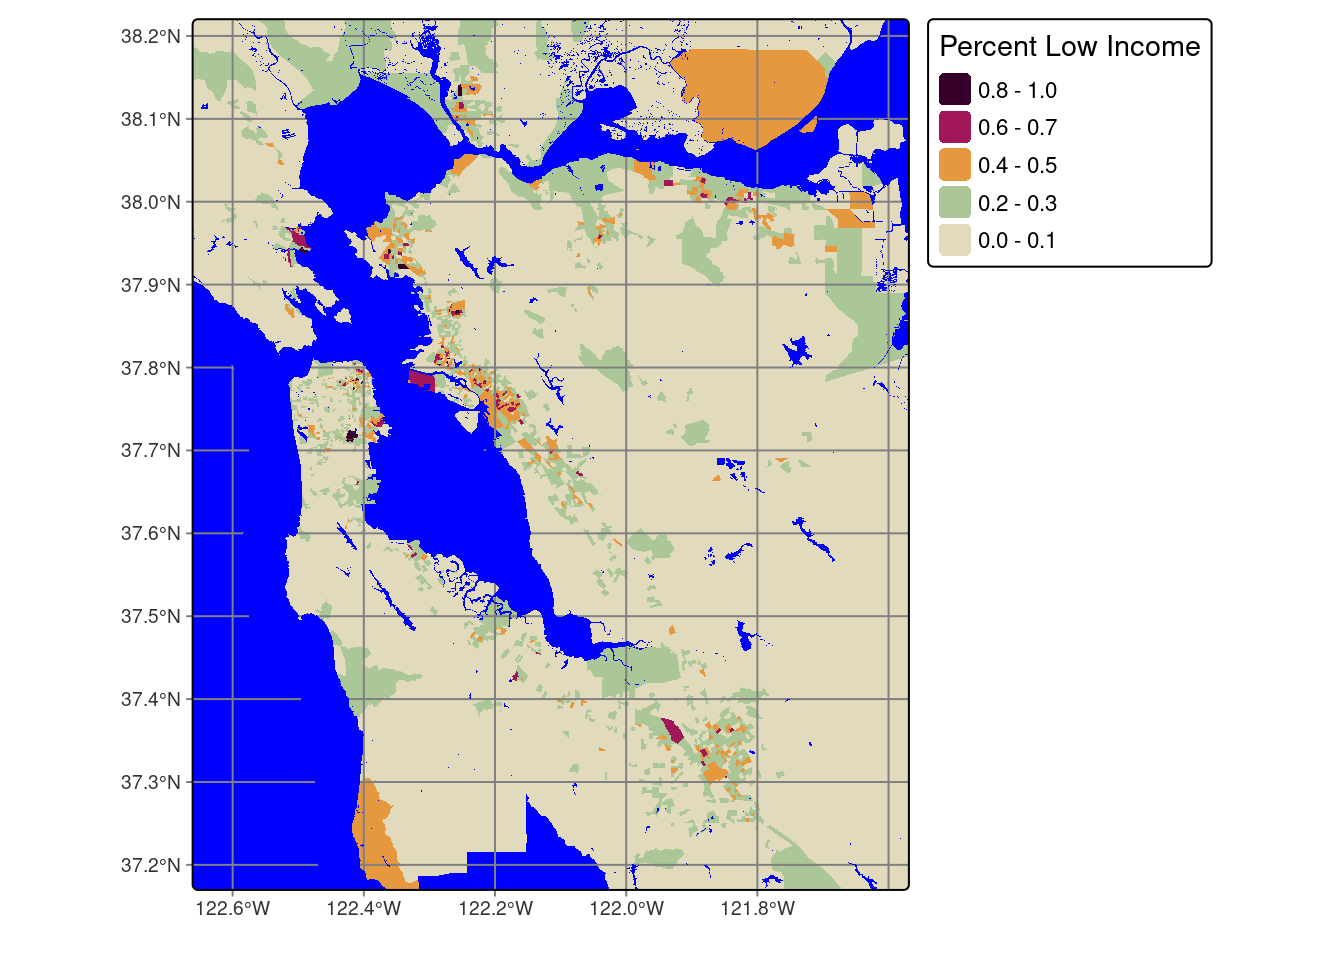
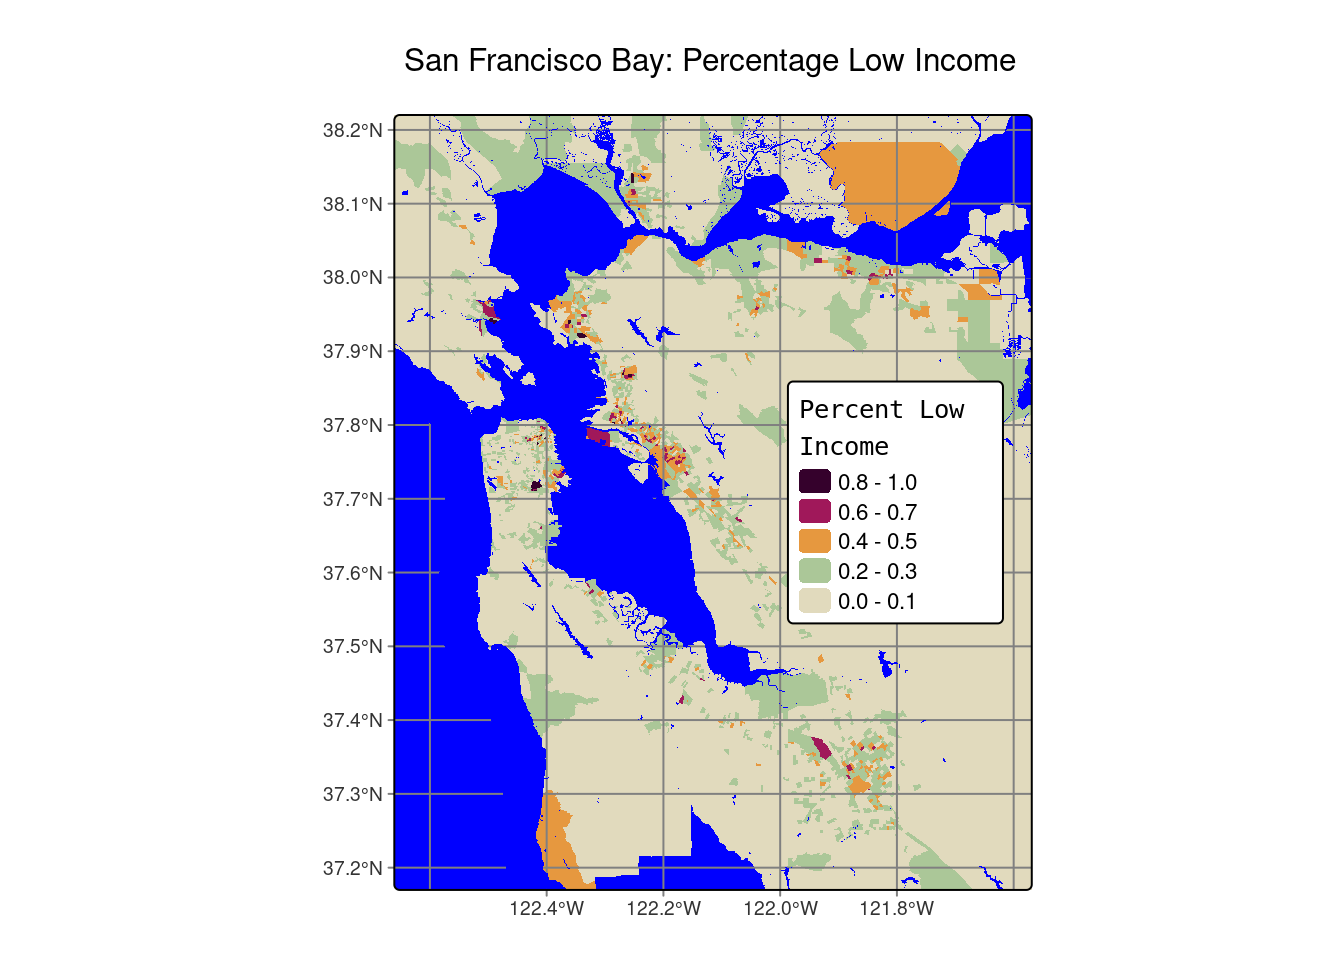
Tweaked legend aesthetics for my plots and added a description

diff --git a/eds223-homework1.html b/eds223-homework1.html
@@ -123,14 +123,14 @@ code span.wa { color: #60a0b0; font-weight: bold; font-style: italic; } /* Warni
 
 </header>
 
-<section id="assesing" class="level1">
-<h1>Assesing:</h1>
+<section id="assesing-wastewater-discharge-in-low-income-communities" class="level1">
+<h1>Assesing Wastewater discharge in low income communities:</h1>
 <section id="peter-vitale" class="level2">
 <h2 class="anchored" data-anchor-id="peter-vitale">Peter Vitale</h2>
 <p>In this project I hope to practice geo-spatial data visualization by:</p>
 <ul>
-<li>A</li>
-<li>B</li>
+<li>Crating a clear and visually stimulating plot of the San Francisco Bay</li>
+<li>Tying plots to an environmental injustice</li>
 </ul>
 <p>I’m going to start by reading in the data and zoom in on the area I am focused on: South San Francisco Bay</p>
 <div class="cell">
@@ -158,15 +158,19 @@ Projected CRS: WGS 84 / Pseudo-Mercator</code></pre>
 <span id="cb3-6"><a href="#cb3-6" aria-hidden="true" tabindex="-1"></a>sf_bay_ej <span class="ot">&lt;-</span> ejscreen <span class="sc">%&gt;%</span></span>
 <span id="cb3-7"><a href="#cb3-7" aria-hidden="true" tabindex="-1"></a>  dplyr<span class="sc">::</span><span class="fu">filter</span>(CNTY_NAME <span class="sc">%in%</span> <span class="fu">c</span>(<span class="st">"Santa Clara County"</span>, <span class="st">'Alameda County'</span>, <span class="st">'Contra Costa County'</span> , <span class="st">'Marin County'</span>, <span class="st">'Napa County'</span>, <span class="st">'San Francisco County'</span> , <span class="st">'San Mateo County'</span>, <span class="st">'Solano County'</span>, <span class="st">'Sonoma County'</span>))</span>
 <span id="cb3-8"><a href="#cb3-8" aria-hidden="true" tabindex="-1"></a></span>
-<span id="cb3-9"><a href="#cb3-9" aria-hidden="true" tabindex="-1"></a><span class="co"># find the average values for all variables within counties</span></span>
-<span id="cb3-10"><a href="#cb3-10" aria-hidden="true" tabindex="-1"></a>california_counties <span class="ot">&lt;-</span> <span class="fu">aggregate</span>(california, <span class="at">by =</span> <span class="fu">list</span>(california<span class="sc">$</span>CNTY_NAME), <span class="at">FUN =</span> mean)</span>
-<span id="cb3-11"><a href="#cb3-11" aria-hidden="true" tabindex="-1"></a></span>
-<span id="cb3-12"><a href="#cb3-12" aria-hidden="true" tabindex="-1"></a><span class="co"># Drop NA's on the Wastewater column of the sf_bay_ej data</span></span>
-<span id="cb3-13"><a href="#cb3-13" aria-hidden="true" tabindex="-1"></a>sf_bay_ej <span class="ot">=</span> sf_bay_ej <span class="sc">%&gt;%</span> </span>
-<span id="cb3-14"><a href="#cb3-14" aria-hidden="true" tabindex="-1"></a>  <span class="fu">drop_na</span>(<span class="st">'D2_PWDIS'</span>)</span></code><button title="Copy to Clipboard" class="code-copy-button"><i class="bi"></i></button></pre></div>
+<span id="cb3-9"><a href="#cb3-9" aria-hidden="true" tabindex="-1"></a></span>
+<span id="cb3-10"><a href="#cb3-10" aria-hidden="true" tabindex="-1"></a><span class="co"># Drop NA's on the Wastewater column of the sf_bay_ej data</span></span>
+<span id="cb3-11"><a href="#cb3-11" aria-hidden="true" tabindex="-1"></a>sf_bay_ej <span class="ot">=</span> sf_bay_ej <span class="sc">%&gt;%</span> </span>
+<span id="cb3-12"><a href="#cb3-12" aria-hidden="true" tabindex="-1"></a>  <span class="fu">drop_na</span>(<span class="st">'D2_PWDIS'</span>)</span></code><button title="Copy to Clipboard" class="code-copy-button"><i class="bi"></i></button></pre></div>
 </div>
-<p>Now I am going to start by plotting the South Bay with some population numbers</p>
+<p>Now I am going to start by plotting the South Bay Wastewater discharge</p>
 <div class="cell">
+<div class="sourceCode cell-code" id="cb4"><pre class="sourceCode r code-with-copy"><code class="sourceCode r"><span id="cb4-1"><a href="#cb4-1" aria-hidden="true" tabindex="-1"></a>bbox_main <span class="ot">&lt;-</span> <span class="fu">st_bbox</span>(<span class="fu">c</span>(<span class="at">xmin =</span> <span class="sc">-</span><span class="fl">122.64</span> , <span class="at">xmax =</span> <span class="sc">-</span><span class="fl">121.59</span> , <span class="at">ymax =</span> <span class="fl">38.2</span> , <span class="at">ymin =</span> <span class="fl">37.19</span>), <span class="at">crs =</span> <span class="dv">4326</span>) <span class="co"># This sets the bounding box and crs which aid in the view of the San Francisco Bay </span></span>
+<span id="cb4-2"><a href="#cb4-2" aria-hidden="true" tabindex="-1"></a>        </span>
+<span id="cb4-3"><a href="#cb4-3" aria-hidden="true" tabindex="-1"></a></span>
+<span id="cb4-4"><a href="#cb4-4" aria-hidden="true" tabindex="-1"></a><span class="co"># I don't love this map without the iconic bay, so I am going to add the water</span></span>
+<span id="cb4-5"><a href="#cb4-5" aria-hidden="true" tabindex="-1"></a></span>
+<span id="cb4-6"><a href="#cb4-6" aria-hidden="true" tabindex="-1"></a>sf_bay_water <span class="ot">&lt;-</span> <span class="fu">st_read</span>(<span class="at">dsn =</span><span class="fu">here</span>(<span class="st">'data'</span>, <span class="st">'sf-bay-shape'</span>, <span class="st">'region_water_area.shp'</span>))</span></code><button title="Copy to Clipboard" class="code-copy-button"><i class="bi"></i></button></pre></div>
 <div class="cell-output cell-output-stdout">
 <pre><code>Reading layer `region_water_area' from data source 
   `/Users/petervitale/MEDS/EDS-223/eds223-homework1/data/sf-bay-shape/region_water_area.shp' 
@@ -177,30 +181,62 @@ Dimension:     XY
 Bounding box:  xmin: -123.6325 ymin: 37.00103 xmax: -121.2521 ymax: 38.85491
 Geodetic CRS:  WGS 84</code></pre>
 </div>
+<div class="sourceCode cell-code" id="cb6"><pre class="sourceCode r code-with-copy"><code class="sourceCode r"><span id="cb6-1"><a href="#cb6-1" aria-hidden="true" tabindex="-1"></a><span class="fu">tm_shape</span>(sf_bay_ej, <span class="at">bbox =</span> bbox_main) <span class="sc">+</span> <span class="co">#We start with the base: the sf bay </span></span>
+<span id="cb6-2"><a href="#cb6-2" aria-hidden="true" tabindex="-1"></a>  <span class="fu">tm_crs</span>(<span class="dv">4326</span>) <span class="sc">+</span> <span class="co">#What view we want of the map </span></span>
+<span id="cb6-3"><a href="#cb6-3" aria-hidden="true" tabindex="-1"></a>  <span class="fu">tm_polygons</span>(<span class="at">fill =</span> <span class="st">'P_D2_PWDIS'</span>,</span>
+<span id="cb6-4"><a href="#cb6-4" aria-hidden="true" tabindex="-1"></a>             <span class="at">fill.scale =</span> <span class="fu">tm_scale</span>(<span class="at">values =</span> <span class="fu">c</span>(<span class="st">'#E1DABD'</span>,</span>
+<span id="cb6-5"><a href="#cb6-5" aria-hidden="true" tabindex="-1"></a>                                              <span class="st">'#ABC798'</span>,</span>
+<span id="cb6-6"><a href="#cb6-6" aria-hidden="true" tabindex="-1"></a>                                              <span class="st">'#FFC4EB'</span>,</span>
+<span id="cb6-7"><a href="#cb6-7" aria-hidden="true" tabindex="-1"></a>                                              <span class="st">'#E6983F'</span>,</span>
+<span id="cb6-8"><a href="#cb6-8" aria-hidden="true" tabindex="-1"></a>                                              <span class="st">'#A0185A'</span>,</span>
+<span id="cb6-9"><a href="#cb6-9" aria-hidden="true" tabindex="-1"></a>                                              <span class="st">'#35012C'</span>),</span>
+<span id="cb6-10"><a href="#cb6-10" aria-hidden="true" tabindex="-1"></a>                                   <span class="at">breaks =</span> <span class="fu">c</span>(<span class="dv">0</span>,<span class="dv">50</span>,<span class="dv">80</span>,<span class="dv">90</span>,<span class="dv">95</span>,<span class="dv">100</span>)), <span class="co">#This sets up my wastewater color scale and fills in the percentiles of wastewaters</span></span>
+<span id="cb6-11"><a href="#cb6-11" aria-hidden="true" tabindex="-1"></a>             <span class="at">lty =</span> <span class="st">'blank'</span>, <span class="co">#Getting rid of the lines</span></span>
+<span id="cb6-12"><a href="#cb6-12" aria-hidden="true" tabindex="-1"></a>             <span class="at">fill.legend =</span> <span class="fu">tm_legend</span>(<span class="at">title =</span> <span class="st">'Wastewater</span><span class="sc">\n</span><span class="st">Discharge</span><span class="sc">\n</span><span class="st">(Percentile)'</span>, </span>
+<span id="cb6-13"><a href="#cb6-13" aria-hidden="true" tabindex="-1"></a>                                     <span class="at">reverse =</span> <span class="cn">TRUE</span>, </span>
+<span id="cb6-14"><a href="#cb6-14" aria-hidden="true" tabindex="-1"></a>                                     <span class="at">width =</span> <span class="dv">8</span>,</span>
+<span id="cb6-15"><a href="#cb6-15" aria-hidden="true" tabindex="-1"></a>                                     <span class="at">height =</span> <span class="dv">9</span>,</span>
+<span id="cb6-16"><a href="#cb6-16" aria-hidden="true" tabindex="-1"></a>                                     <span class="at">title.fontfamily =</span> <span class="st">'monospace'</span>))<span class="sc">+</span> <span class="co">#Legend formatting</span></span>
+<span id="cb6-17"><a href="#cb6-17" aria-hidden="true" tabindex="-1"></a>  <span class="fu">tm_layout</span>(<span class="at">bg.color =</span> <span class="st">'blue'</span>,</span>
+<span id="cb6-18"><a href="#cb6-18" aria-hidden="true" tabindex="-1"></a>            <span class="at">legend.position =</span> <span class="fu">c</span>(<span class="st">'right'</span>,<span class="st">'center'</span>),</span>
+<span id="cb6-19"><a href="#cb6-19" aria-hidden="true" tabindex="-1"></a>            <span class="at">legend.title.size =</span> .<span class="dv">8</span>)<span class="sc">+</span> <span class="co">#Background color and legend size + position</span></span>
+<span id="cb6-20"><a href="#cb6-20" aria-hidden="true" tabindex="-1"></a>  <span class="fu">tm_graticules</span>()<span class="sc">+</span> <span class="co">#this adds gridlines</span></span>
+<span id="cb6-21"><a href="#cb6-21" aria-hidden="true" tabindex="-1"></a><span class="fu">tm_shape</span>(sf_bay_water)<span class="sc">+</span> <span class="co">#Lets get our SF bay water data in there</span></span>
+<span id="cb6-22"><a href="#cb6-22" aria-hidden="true" tabindex="-1"></a>  <span class="fu">tm_polygons</span>(<span class="at">fill =</span> <span class="st">'blue'</span>,</span>
+<span id="cb6-23"><a href="#cb6-23" aria-hidden="true" tabindex="-1"></a>              <span class="at">lty =</span> <span class="st">'blank'</span>)<span class="sc">+</span></span>
+<span id="cb6-24"><a href="#cb6-24" aria-hidden="true" tabindex="-1"></a>  <span class="fu">tm_title</span>(<span class="st">'San Francisco Bay: Wastewater Discharge'</span>) <span class="co">#And cap it off with a title</span></span></code><button title="Copy to Clipboard" class="code-copy-button"><i class="bi"></i></button></pre></div>
 <div class="cell-output-display">
 <p><img src="eds223-homework1_files/figure-html/unnamed-chunk-2-1.png" class="img-fluid" width="672"></p>
 </div>
 </div>
 <div class="cell">
-<div class="sourceCode cell-code" id="cb5"><pre class="sourceCode r code-with-copy"><code class="sourceCode r"><span id="cb5-1"><a href="#cb5-1" aria-hidden="true" tabindex="-1"></a><span class="fu">tm_shape</span>(sf_bay_ej, <span class="at">bbox =</span> bbox_main) <span class="sc">+</span></span>
-<span id="cb5-2"><a href="#cb5-2" aria-hidden="true" tabindex="-1"></a>  <span class="fu">tm_crs</span>(<span class="dv">4326</span>) <span class="sc">+</span></span>
-<span id="cb5-3"><a href="#cb5-3" aria-hidden="true" tabindex="-1"></a>  <span class="fu">tm_polygons</span>(<span class="at">fill =</span> <span class="st">'LOWINCPCT'</span>,</span>
-<span id="cb5-4"><a href="#cb5-4" aria-hidden="true" tabindex="-1"></a>             <span class="at">fill.scale =</span> <span class="fu">tm_scale</span>(<span class="at">values =</span> <span class="fu">c</span>(<span class="st">'#E1DABD'</span>,</span>
-<span id="cb5-5"><a href="#cb5-5" aria-hidden="true" tabindex="-1"></a>                                              <span class="st">'#ABC798'</span>,</span>
-<span id="cb5-6"><a href="#cb5-6" aria-hidden="true" tabindex="-1"></a>                                              <span class="st">'#E6983F'</span>,</span>
-<span id="cb5-7"><a href="#cb5-7" aria-hidden="true" tabindex="-1"></a>                                              <span class="st">'#A0185A'</span>,</span>
-<span id="cb5-8"><a href="#cb5-8" aria-hidden="true" tabindex="-1"></a>                                              <span class="st">'#35012C'</span>)),</span>
-<span id="cb5-9"><a href="#cb5-9" aria-hidden="true" tabindex="-1"></a>             <span class="at">lty =</span> <span class="st">'blank'</span>,</span>
-<span id="cb5-10"><a href="#cb5-10" aria-hidden="true" tabindex="-1"></a>             <span class="at">fill.legend =</span> <span class="fu">tm_legend</span>(<span class="at">title =</span> <span class="st">'Percent Low Income'</span>, <span class="at">reverse =</span> <span class="cn">TRUE</span>))<span class="sc">+</span></span>
-<span id="cb5-11"><a href="#cb5-11" aria-hidden="true" tabindex="-1"></a>  <span class="fu">tm_layout</span>(<span class="at">bg.color =</span> <span class="st">'blue'</span>)<span class="sc">+</span></span>
-<span id="cb5-12"><a href="#cb5-12" aria-hidden="true" tabindex="-1"></a>  <span class="fu">tm_graticules</span>()<span class="sc">+</span></span>
-<span id="cb5-13"><a href="#cb5-13" aria-hidden="true" tabindex="-1"></a><span class="fu">tm_shape</span>(sf_bay_water)<span class="sc">+</span></span>
-<span id="cb5-14"><a href="#cb5-14" aria-hidden="true" tabindex="-1"></a>  <span class="fu">tm_polygons</span>(<span class="at">fill =</span> <span class="st">'blue'</span>,</span>
-<span id="cb5-15"><a href="#cb5-15" aria-hidden="true" tabindex="-1"></a>              <span class="at">lty =</span> <span class="st">'blank'</span>)</span></code><button title="Copy to Clipboard" class="code-copy-button"><i class="bi"></i></button></pre></div>
+<div class="sourceCode cell-code" id="cb7"><pre class="sourceCode r code-with-copy"><code class="sourceCode r"><span id="cb7-1"><a href="#cb7-1" aria-hidden="true" tabindex="-1"></a><span class="fu">tm_shape</span>(sf_bay_ej, <span class="at">bbox =</span> bbox_main) <span class="sc">+</span> </span>
+<span id="cb7-2"><a href="#cb7-2" aria-hidden="true" tabindex="-1"></a>  <span class="fu">tm_crs</span>(<span class="dv">4326</span>) <span class="sc">+</span></span>
+<span id="cb7-3"><a href="#cb7-3" aria-hidden="true" tabindex="-1"></a>  <span class="fu">tm_polygons</span>(<span class="at">fill =</span> <span class="st">'LOWINCPCT'</span>, <span class="co">#This time im using percent income instead of wastewater</span></span>
+<span id="cb7-4"><a href="#cb7-4" aria-hidden="true" tabindex="-1"></a>             <span class="at">fill.scale =</span> <span class="fu">tm_scale</span>(<span class="at">values =</span> <span class="fu">c</span>(<span class="st">'#E1DABD'</span>,</span>
+<span id="cb7-5"><a href="#cb7-5" aria-hidden="true" tabindex="-1"></a>                                              <span class="st">'#ABC798'</span>,</span>
+<span id="cb7-6"><a href="#cb7-6" aria-hidden="true" tabindex="-1"></a>                                              <span class="st">'#E6983F'</span>,</span>
+<span id="cb7-7"><a href="#cb7-7" aria-hidden="true" tabindex="-1"></a>                                              <span class="st">'#A0185A'</span>,</span>
+<span id="cb7-8"><a href="#cb7-8" aria-hidden="true" tabindex="-1"></a>                                              <span class="st">'#35012C'</span>)),</span>
+<span id="cb7-9"><a href="#cb7-9" aria-hidden="true" tabindex="-1"></a>             <span class="at">lty =</span> <span class="st">'blank'</span>,</span>
+<span id="cb7-10"><a href="#cb7-10" aria-hidden="true" tabindex="-1"></a>             <span class="at">fill.legend =</span> <span class="fu">tm_legend</span>(<span class="at">title =</span> <span class="st">'Percent Low</span><span class="sc">\n</span><span class="st">Income'</span>, </span>
+<span id="cb7-11"><a href="#cb7-11" aria-hidden="true" tabindex="-1"></a>                                     <span class="at">reverse =</span> <span class="cn">TRUE</span>,</span>
+<span id="cb7-12"><a href="#cb7-12" aria-hidden="true" tabindex="-1"></a>                                     <span class="at">width =</span> <span class="dv">8</span>,</span>
+<span id="cb7-13"><a href="#cb7-13" aria-hidden="true" tabindex="-1"></a>                                     <span class="at">height =</span> <span class="dv">9</span>,</span>
+<span id="cb7-14"><a href="#cb7-14" aria-hidden="true" tabindex="-1"></a>                                     <span class="at">title.fontfamily =</span> <span class="st">'monospace'</span>))<span class="sc">+</span></span>
+<span id="cb7-15"><a href="#cb7-15" aria-hidden="true" tabindex="-1"></a>  <span class="fu">tm_layout</span>(<span class="at">bg.color =</span> <span class="st">'blue'</span>,</span>
+<span id="cb7-16"><a href="#cb7-16" aria-hidden="true" tabindex="-1"></a>            <span class="at">legend.position =</span> <span class="fu">c</span>(<span class="st">'right'</span>,<span class="st">'center'</span>),</span>
+<span id="cb7-17"><a href="#cb7-17" aria-hidden="true" tabindex="-1"></a>            <span class="at">legend.title.size =</span> .<span class="dv">8</span>)<span class="sc">+</span></span>
+<span id="cb7-18"><a href="#cb7-18" aria-hidden="true" tabindex="-1"></a>  <span class="fu">tm_graticules</span>()<span class="sc">+</span></span>
+<span id="cb7-19"><a href="#cb7-19" aria-hidden="true" tabindex="-1"></a><span class="fu">tm_shape</span>(sf_bay_water)<span class="sc">+</span></span>
+<span id="cb7-20"><a href="#cb7-20" aria-hidden="true" tabindex="-1"></a>  <span class="fu">tm_polygons</span>(<span class="at">fill =</span> <span class="st">'blue'</span>,</span>
+<span id="cb7-21"><a href="#cb7-21" aria-hidden="true" tabindex="-1"></a>              <span class="at">lty =</span> <span class="st">'blank'</span>)<span class="sc">+</span></span>
+<span id="cb7-22"><a href="#cb7-22" aria-hidden="true" tabindex="-1"></a><span class="fu">tm_title</span>(<span class="st">'San Francisco Bay: Percentage Low Income'</span>)</span></code><button title="Copy to Clipboard" class="code-copy-button"><i class="bi"></i></button></pre></div>
 <div class="cell-output-display">
 <p><img src="eds223-homework1_files/figure-html/unnamed-chunk-3-1.png" class="img-fluid" width="672"></p>
 </div>
 </div>
+<p>The San Francisco Bay has <a href="https://www.sfpuc.gov/about-us/our-systems/sewer-system">37 wastewater</a> treatment plants which run into the Bay. The San Francisco Bay also has an increasingly high level of wealth disparity, with a gap of <a href="https://www.kron4.com/news/bay-area/silicon-valley-income-inequality/">$126,800 between Silicon Valley’s highest and lowest earners</a>. I decided to compare where the wastewater was being dumped, and the percentage of the population that is low income. In the maps you can see some peaks in wastewater in San Jose and San Pablo. While the percentage of low income is not extremely high in these communities, it still peaks where we see wastewater being discharged. The low income plot must also be viewed with the caveat that the data classifies low income as anyone below $52,992 per year. However, the disparity in the San Francisco Bay makes it so some counties people making even <a href="https://www.ktvu.com/news/all-bay-area-counties-earning-six-figures-can-still-be-considered-low-income">$100,000</a> being considered low income. If the data had included an adjusted low income level, the pattern of those in low income communities having their access to nature reduced.</p>
 </section>
 </section>
 
